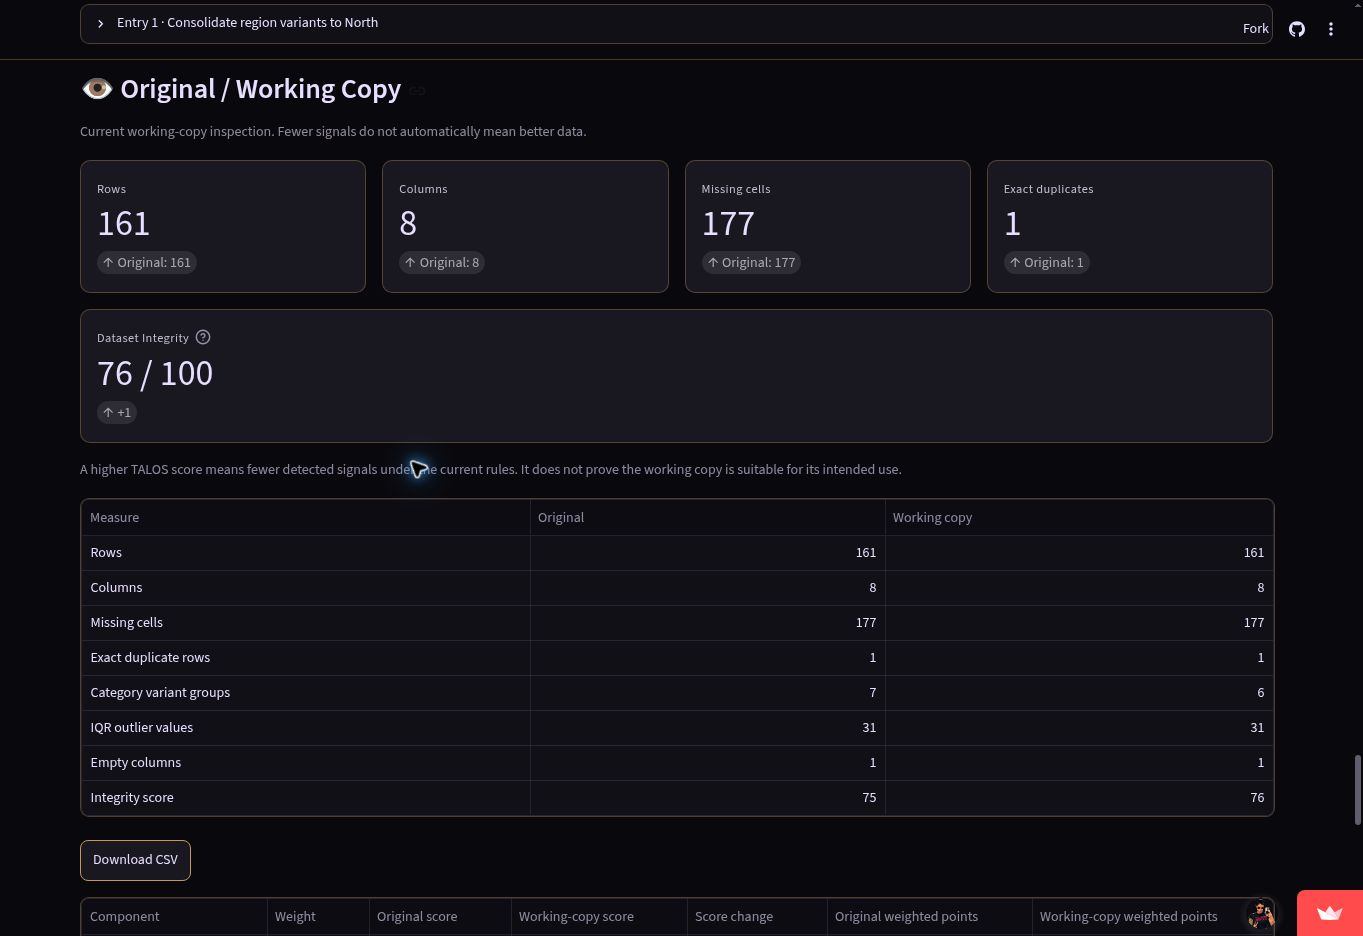
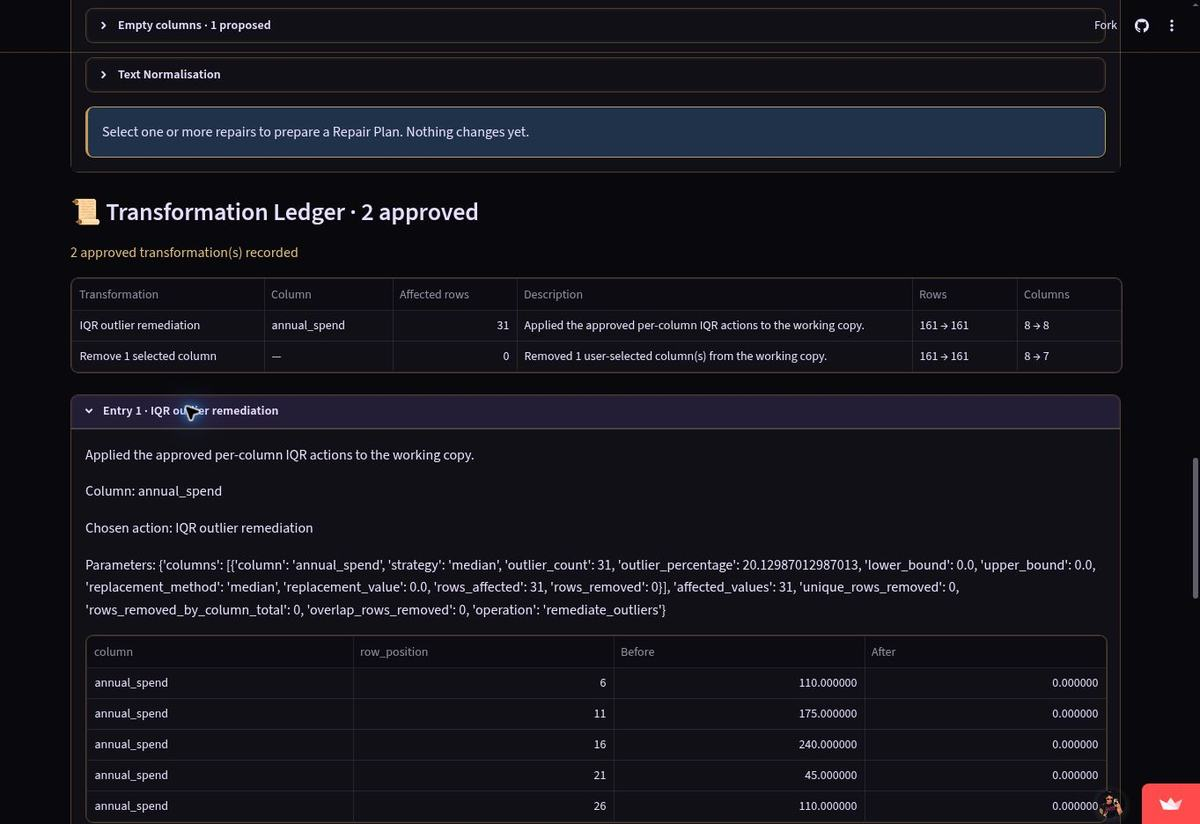
Refresh TALOS v1.1.1 screenshots and README

diff --git a/README.md b/README.md
@@ -28,15 +28,17 @@ Screenshots use the built-in synthetic demo data.
 
 ![TALOS Dataset Integrity Score with component weights and limitations](assets/screenshots/talos-demo-score-20260925.jpg)
 
-| The Forge | Reinspection |
-| --- | --- |
-| ![One category repair selected in the Repair Plan, awaiting approval](assets/screenshots/talos-demo-forge-20260925.jpg) | ![Approved repair recorded, then reinspected and compared with the original](assets/screenshots/talos-demo-reinspection-20260925.jpg) |
+![Per-column IQR treatment and manual field removal in one unapproved Repair Plan](assets/screenshots/talos-demo-forge-20260925.jpg)
+
+![Manual field selection with the identifier warning and expected shape](assets/screenshots/talos-demo-column-removal-20260925.jpg)
+
+![Approved changes recorded in the ledger after reinspection](assets/screenshots/talos-demo-reinspection-20260925.jpg)
 
 ![Evidence Vault with result-table summaries, report and ZIP exports](assets/screenshots/talos-demo-evidence-20260925.jpg)
 
 The appearance preference is session-level and leaves the inspection state intact.
 
-![TALOS light appearance with the source-file gate and workflow guide](assets/screenshots/talos-light-theme-20260925.jpg)
+![TALOS light appearance with a readable missing-data notice and table](assets/screenshots/talos-light-theme-20260925.jpg)
 
 ## What it does
 
